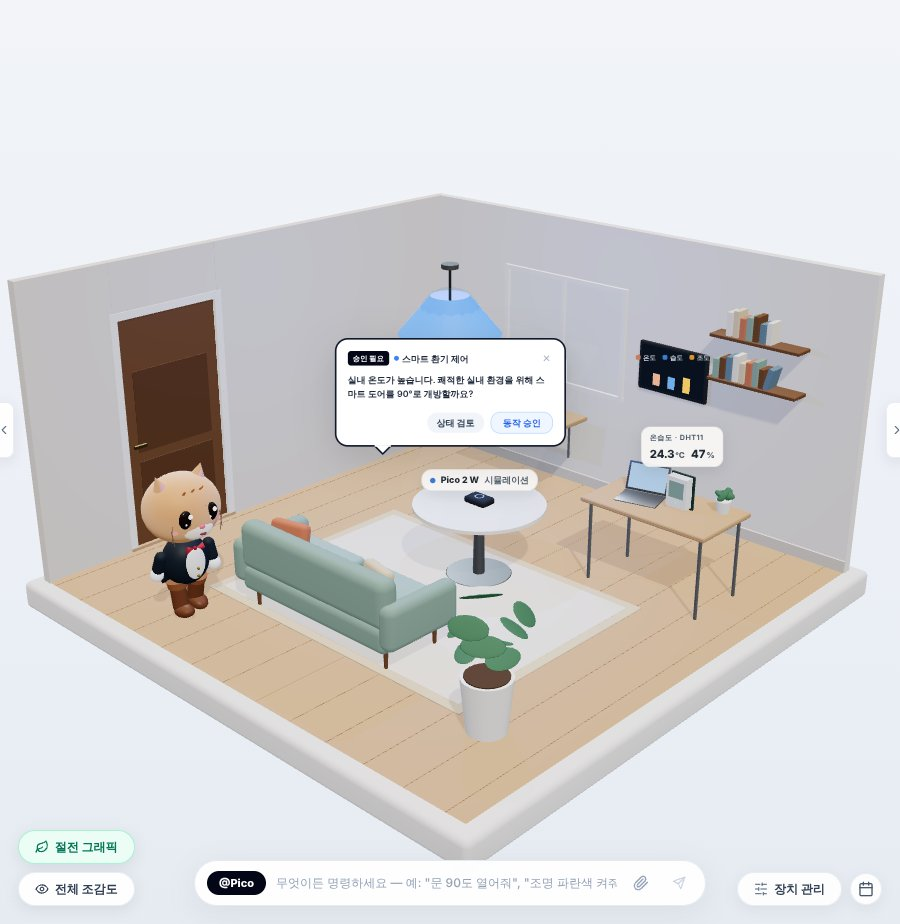
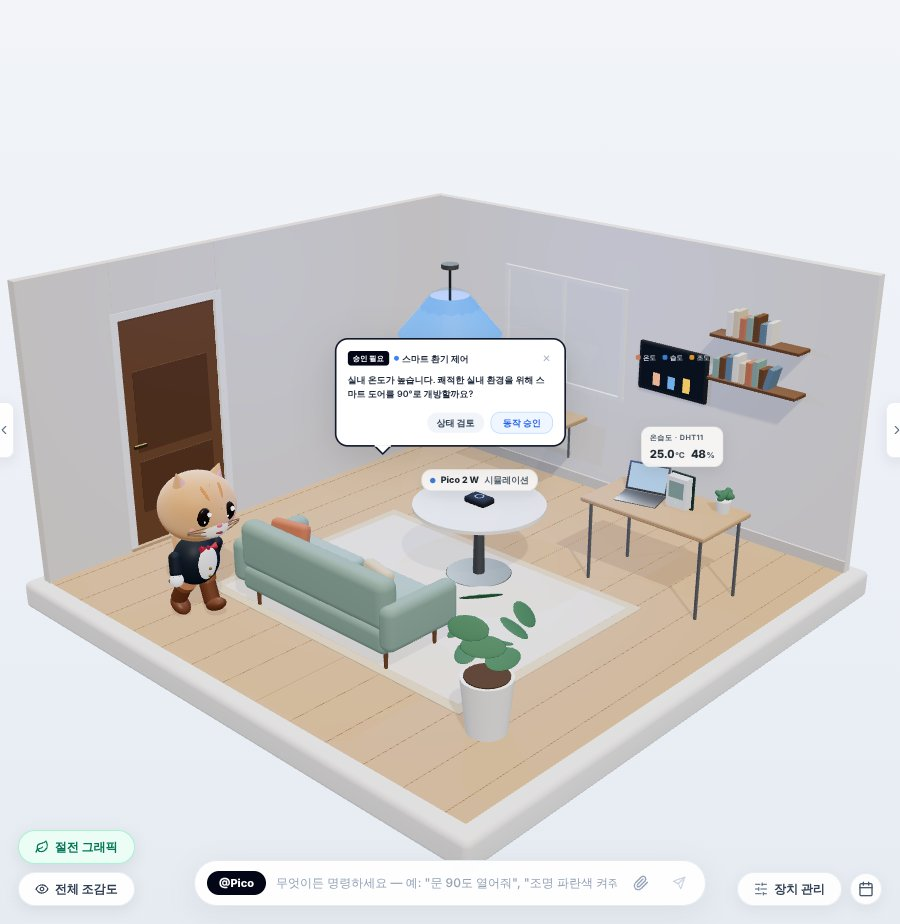
마스코트 형상 오류 수정 + 음성 높낮이 · 속도 기본값 1.0
- 고양이 집사: 세로로 서 있던 수염을 주둥이 양옆에서 가로로 뻗게, 끊어져 떠 있던 꼬리를
  두 마디 곡선으로 연결, 이마 줄무늬를 머리 곡면에 납작하게
- 젖소 농부: 꼬리와 술이 떨어져 있던 것 연결 (아래 · 뒤로 늘어지게)
- 작업 로봇: 안전모 속에 묻힌 안테나를 모자 위로
- 교복 학생: 뒤통수 · 목덜미를 덮는 단발, 가슴에서 튀어나온 셔츠 V 를 납작하게
- 음성 기본값 속도 1.0 · 높낮이 1.0 (예전 기본값을 쓰던 PC 는 1.0 으로 이전, 직접 바꾼 값은 유지)
- 매뉴얼 거실 허브 사진 다시 촬영

Claude-Session: https://claude.ai/code/session_01RnBXsoc3HVdijyYHwFuMjE

Changed region(s): [[0.1556, 0.4848, 0.28, 0.6667]]

diff --git a/src/components/3d/characters/CatButler.tsx b/src/components/3d/characters/CatButler.tsx
@@ -91,13 +91,21 @@ export function CatButler(props: MascotProps) {
             </group>
           ))}
 
-          {/* 꼬리 (살랑) */}
-          <group ref={rig.tail} position={[0, 0.3, -0.15]}>
-            <mesh position={[0, 0.12, -0.08]} rotation={[0.5, 0, 0]}>
-              <capsuleGeometry args={[0.032, 0.22, 6, 12]} />
+          {/* 꼬리 (살랑): 엉덩이에서 뒤로 → 위로 휘는 두 마디, 끝은 밝은 털 */}
+          <group ref={rig.tail} position={[0, 0.3, -0.12]}>
+            <mesh position={[0, 0.031, -0.063]} rotation={[-1.107, 0, 0]}>
+              <capsuleGeometry args={[0.03, 0.14, 6, 12]} />
               <Soft color={FUR} sheen />
             </mesh>
-            <mesh position={[0, 0.26, -0.15]}>
+            <mesh position={[0, 0.063, -0.125]}>
+              <sphereGeometry args={[0.031, 12, 10]} />
+              <Soft color={FUR} sheen />
+            </mesh>
+            <mesh position={[0, 0.141, -0.144]} rotation={[-0.245, 0, 0]}>
+              <capsuleGeometry args={[0.029, 0.16, 6, 12]} />
+              <Soft color={FUR} sheen />
+            </mesh>
+            <mesh position={[0, 0.222, -0.164]}>
               <sphereGeometry args={[0.036, 12, 10]} />
               <Soft color={FUR_LIGHT} sheen />
             </mesh>
@@ -110,9 +118,9 @@ export function CatButler(props: MascotProps) {
               <Soft color={FUR} sheen />
               <Ol />
             </mesh>
-            {/* 이마 줄무늬 */}
+            {/* 이마 줄무늬 (머리 곡면에 납작하게 붙여 뒤로 눕힘) */}
             {[-0.065, 0, 0.065].map((x) => (
-              <mesh key={x} position={[x, 0.43, 0.165]} rotation={[0.75, 0, -x * 3]} scale={[0.22, 1, 0.12]}>
+              <mesh key={x} position={[x, 0.425, 0.182]} rotation={[-0.8, 0, -x * 3]} scale={[0.22, 1, 0.1]}>
                 <sphereGeometry args={[0.06, 10, 8]} />
                 <Soft color="#D98A4E" />
               </mesh>
@@ -151,10 +159,11 @@ export function CatButler(props: MascotProps) {
               <sphereGeometry args={[0.028, 12, 10]} />
               <meshStandardMaterial color="#7A3440" roughness={0.6} />
             </mesh>
+            {/* 수염: 주둥이 양옆에서 바깥 · 뒤로 가로로 뻗는 3가닥 (원기둥을 눕혀서) */}
             {[-1, 1].map((d) =>
-              [0.17, 0.14].map((y, k) => (
-                <mesh key={`${d}-${k}`} position={[d * 0.2, y, 0.2]} rotation={[0, 0, d * (k ? -0.15 : 0.1)]}>
-                  <cylinderGeometry args={[0.003, 0.003, 0.13, 4]} />
+              [0.18, 0.16, 0.14].map((y, k) => (
+                <mesh key={`${d}-${k}`} position={[d * 0.157, y, 0.226]} rotation={[0, d * 0.3, Math.PI / 2 + d * (k - 1) * 0.16]}>
+                  <cylinderGeometry args={[0.0035, 0.0035, 0.14, 5]} />
                   <meshBasicMaterial color="#6B5446" />
                 </mesh>
               ))

diff --git a/src/components/3d/characters/StudentChibi.tsx b/src/components/3d/characters/StudentChibi.tsx
@@ -51,11 +51,12 @@ export function StudentChibi(props: MascotProps) {
             <Soft color={BLAZER} rough={0.6} />
             <Ol />
           </mesh>
-          <mesh position={[0, 0.52, 0.11]} rotation={[0.35, 0, Math.PI]}>
-            <coneGeometry args={[0.06, 0.12, 3]} />
+          {/* 셔츠 V: 가슴 곡면에 붙인 납작한 삼각형 (꼭짓점 아래) */}
+          <mesh position={[0, 0.515, 0.124]} rotation={[-0.37, 0, -Math.PI / 2]}>
+            <circleGeometry args={[0.062, 3]} />
             <Soft color="#FAF8F5" rough={0.6} />
           </mesh>
-          <mesh position={[0, 0.49, 0.135]} rotation={[0.3, 0, 0]}>
+          <mesh position={[0, 0.49, 0.13]} rotation={[-0.18, 0, 0]}>
             <boxGeometry args={[0.03, 0.11, 0.012]} />
             <Soft color="#B9373F" rough={0.5} />
           </mesh>
@@ -109,6 +110,11 @@ export function StudentChibi(props: MascotProps) {
               <sphereGeometry args={[0.258, 30, 22, 0, Math.PI * 2, 0, Math.PI * 0.62]} />
               <Soft color={HAIR} rough={0.35} />
               <Ol thickness={0.008} />
+            </mesh>
+            {/* 뒷머리: 뒤통수 아래 · 목덜미까지 덮는 단발 (얼굴 쪽은 머리 속에 숨음) */}
+            <mesh position={[0, 0.2, -0.06]} scale={[1.08, 0.9, 0.95]} castShadow>
+              <sphereGeometry args={[0.25, 28, 20]} />
+              <Soft color={HAIR} rough={0.35} />
             </mesh>
             {/* 앞머리 (한 덩어리로 매끈하게) */}
             <mesh position={[0, 0.41, 0.16]} rotation={[0.75, 0, 0]} scale={[2.6, 0.75, 1.15]}>

diff --git a/src/core/voice/voice.ts b/src/core/voice/voice.ts
@@ -16,7 +16,7 @@ interface VoiceState {
   enabled: boolean;
   categories: Record<VoiceCategory, boolean>;
   rate: number;
-  pitch: number;          // 1.15 = 조금 높고 밝게
+  pitch: number;          // 1.0 = 목소리 그대로 (높을수록 밝게)
   voiceURI: string;       // '' = 자동 추천 (Google 한국의 우선)
   lastSpoken: string;
   lastVoice: string;      // 실제로 읽은 목소리 이름 (설정 창 표시)
@@ -37,8 +37,8 @@ export const useVoiceStore = create<VoiceState>()(
     (set) => ({
       enabled: false,
       categories: { approval: true, control: true, automation: true, connection: true },
-      rate: 1.1,
-      pitch: 1.15,
+      rate: 1.0,
+      pitch: 1.0,
       voiceURI: '',
       lastSpoken: '',
       lastVoice: '',
@@ -56,6 +56,16 @@ export const useVoiceStore = create<VoiceState>()(
       name: 'iot-voice-settings',
       storage: createJSONStorage(() => localStorage),
       partialize: (s) => ({ enabled: s.enabled, categories: s.categories, rate: s.rate, pitch: s.pitch, voiceURI: s.voiceURI }),
+      version: 1,
+      // v0 의 기본값(속도 1.1 · 높낮이 1.15)을 그대로 쓰던 PC 는 새 기본값 1.0 으로, 직접 바꾼 값은 그대로
+      migrate: (persisted, version) => {
+        const s = (persisted ?? {}) as Partial<VoiceState>;
+        if (version < 1) {
+          if (s.rate === 1.1) s.rate = 1.0;
+          if (s.pitch === 1.15) s.pitch = 1.0;
+        }
+        return s as VoiceState;
+      },
     }
   )
 );

diff --git a/src/components/ui/VoiceControl.tsx b/src/components/ui/VoiceControl.tsx
@@ -129,7 +129,7 @@ export function VoiceControl() {
           </div>
 
           <div className={`flex flex-col gap-1 ${enabled ? '' : 'opacity-50'}`}>
-            <span className="text-[11px] font-bold text-slate-500">목소리 높낮이 {pitch.toFixed(2)} (높을수록 밝게)</span>
+            <span className="text-[11px] font-bold text-slate-500">목소리 높낮이 {pitch.toFixed(2)} (기본 1.00 · 높을수록 밝게)</span>
             <input
               type="range"
               min="0.8"
@@ -144,7 +144,7 @@ export function VoiceControl() {
           </div>
 
           <div className={`flex flex-col gap-1 ${enabled ? '' : 'opacity-50'}`}>
-            <span className="text-[11px] font-bold text-slate-500">말하기 속도 {rate.toFixed(1)}배</span>
+            <span className="text-[11px] font-bold text-slate-500">말하기 속도 {rate.toFixed(1)}배 (기본 1.0배)</span>
             <input
               type="range"
               min="0.8"

diff --git a/src/components/3d/characters/CowFarmer.tsx b/src/components/3d/characters/CowFarmer.tsx
@@ -104,13 +104,13 @@ export function CowFarmer(props: MascotProps) {
             </group>
           ))}
 
-          {/* 꼬리 (끝에 술) */}
-          <group ref={rig.tail} position={[0, 0.38, -0.22]}>
-            <mesh position={[0, -0.05, -0.05]} rotation={[-0.6, 0, 0]}>
-              <cylinderGeometry args={[0.012, 0.012, 0.14, 6]} />
+          {/* 꼬리: 엉덩이에서 아래 · 뒤로 늘어지고 끝에 술 */}
+          <group ref={rig.tail} position={[0, 0.38, -0.21]}>
+            <mesh position={[0, -0.07, -0.039]} rotation={[0.503, 0, 0]}>
+              <cylinderGeometry args={[0.013, 0.013, 0.16, 6]} />
               <Soft color={WHITE} />
             </mesh>
-            <mesh position={[0, -0.11, -0.1]}>
+            <mesh position={[0, -0.145, -0.08]}>
               <sphereGeometry args={[0.03, 10, 8]} />
               <Soft color={SPOT} />
             </mesh>

diff --git a/src/components/3d/characters/FactoryBot.tsx b/src/components/3d/characters/FactoryBot.tsx
@@ -124,12 +124,12 @@ export function FactoryBot(props: MascotProps) {
                 <Soft color="#E0AE1E" rough={0.35} />
               </mesh>
             </group>
-            {/* 안테나 */}
-            <mesh position={[0.17, 0.48, 0]}>
+            {/* 안테나 (안전모 위로 솟게) */}
+            <mesh position={[0.09, 0.62, 0]}>
               <cylinderGeometry args={[0.006, 0.006, 0.1, 6]} />
               <meshStandardMaterial color={JOINT} />
             </mesh>
-            <mesh position={[0.17, 0.54, 0]}>
+            <mesh position={[0.09, 0.68, 0]}>
               <sphereGeometry args={[0.022, 12, 10]} />
               <meshStandardMaterial color={ACCENT} emissive={ACCENT} emissiveIntensity={1.4} />
             </mesh>
